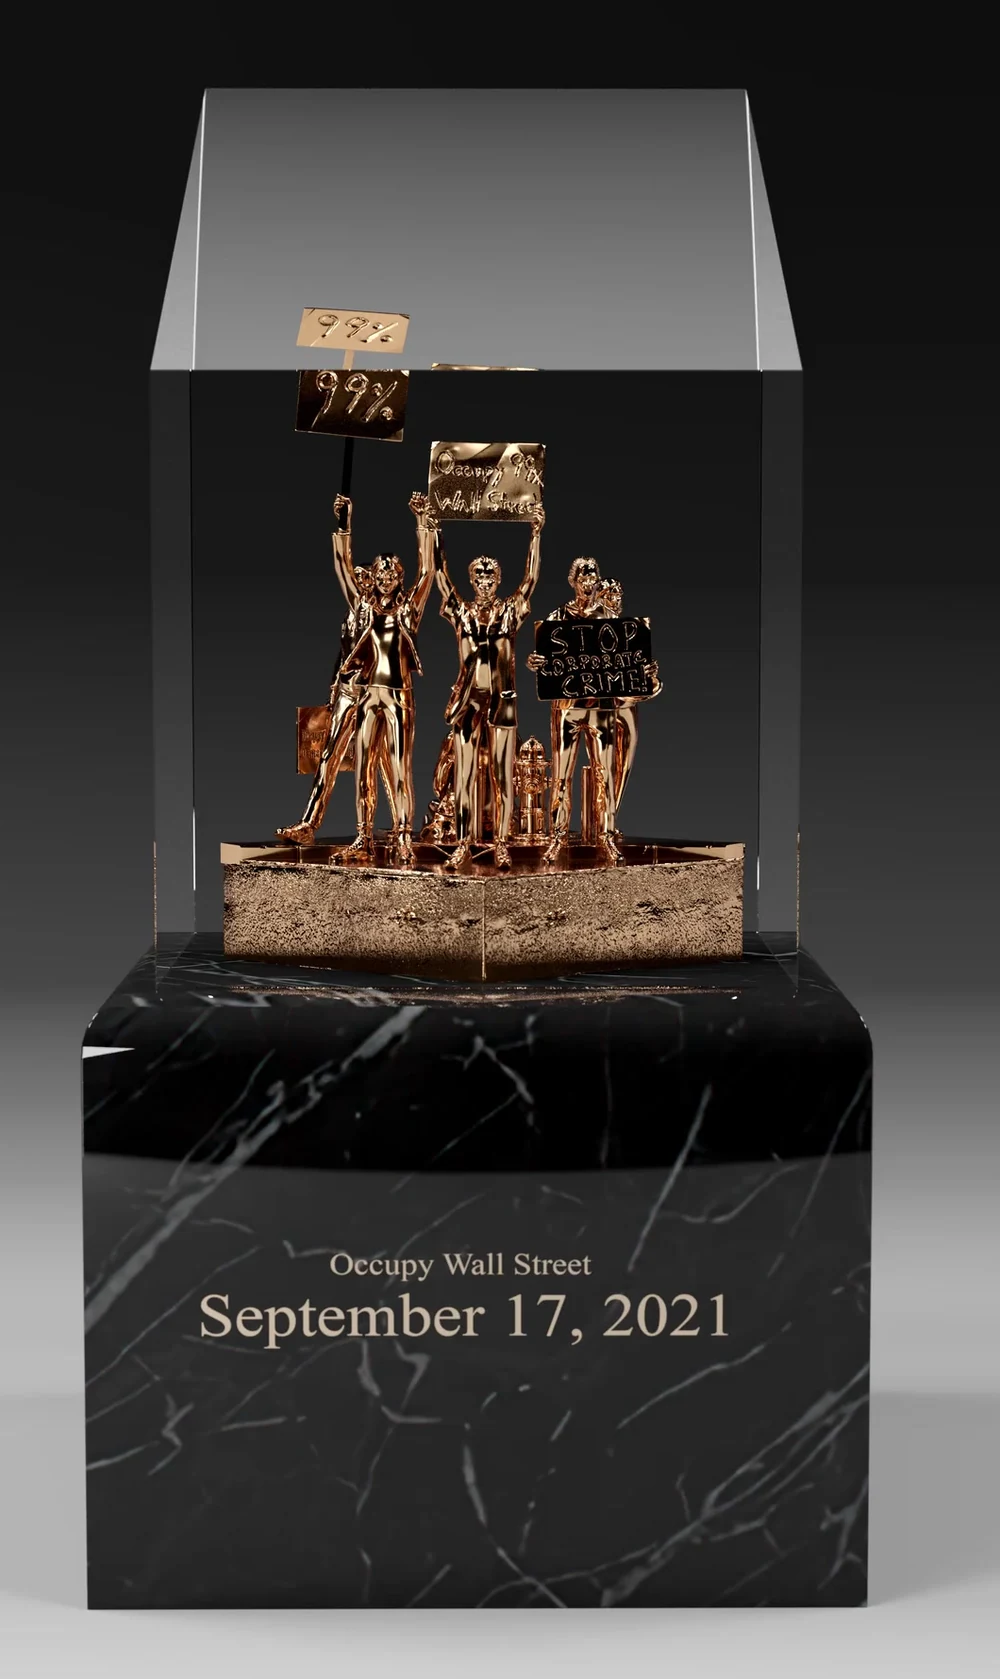
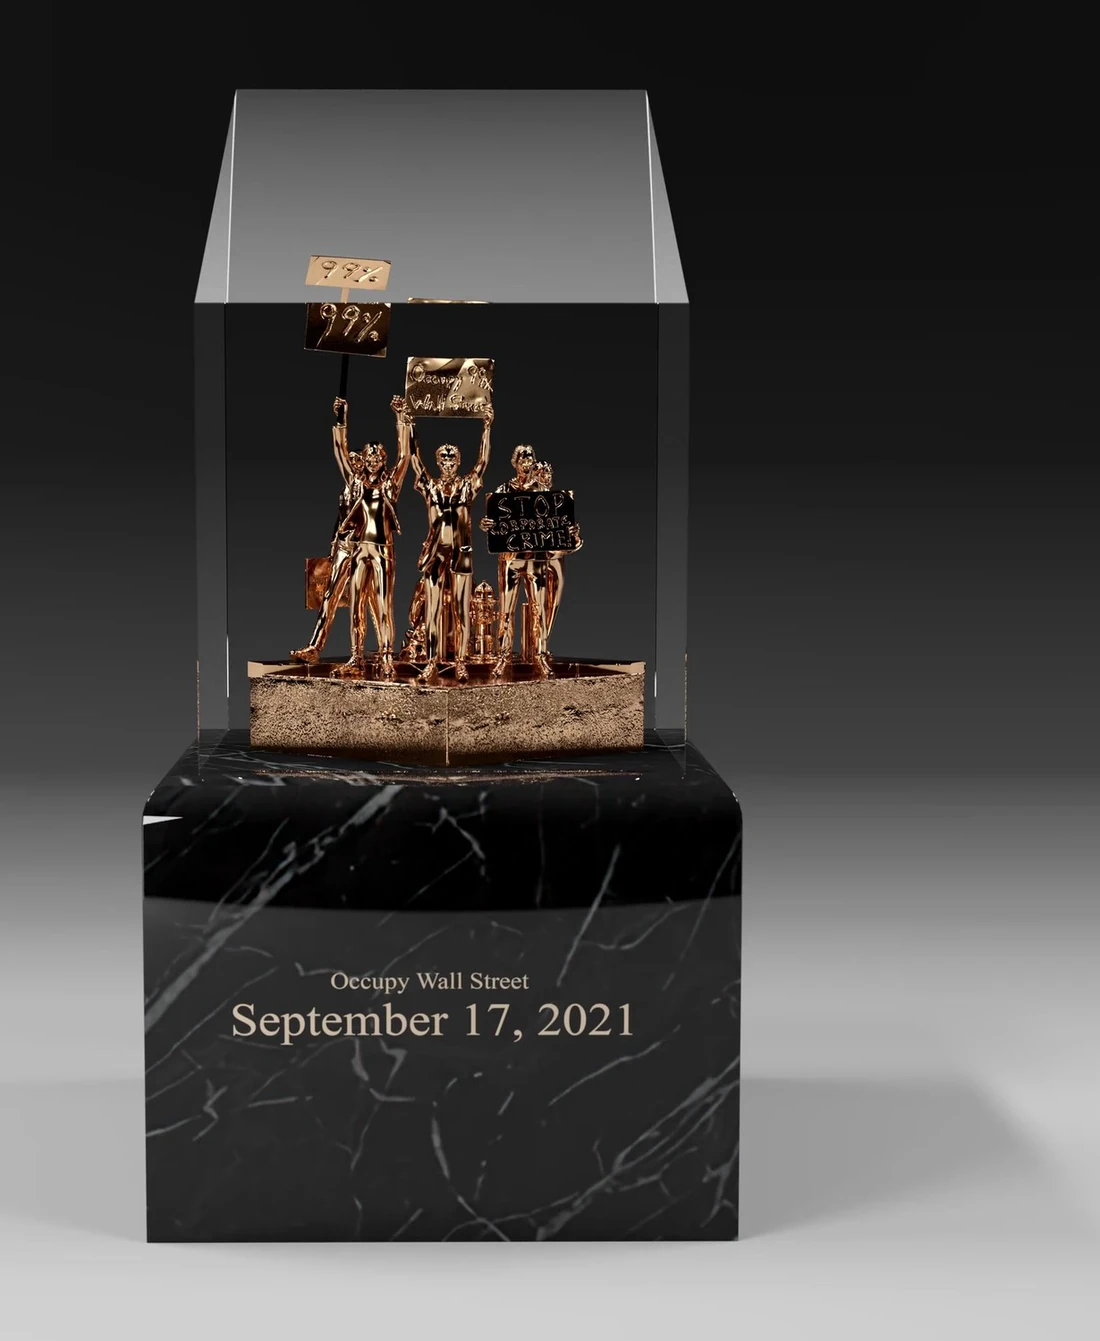
Recrop the Occupy plate so the whole object is in it
The plate ran the work off three edges: the vitrine's peak was cut at the top,
the plinth at the bottom and both sides. Not a layout fault — the file itself
was cropped that tight.

Rebuilt from the first shot, measured rather than eyeballed. Found the solid
object at x 358-1444, y 196-1494 of that frame, which also puts it about a
hundred pixels right of the frame's own centre, and cropped the largest
even-margin box that could be centred on the object without leaving the
source: 1230x1500, 72px either side and 101 top and bottom. The case, the
plinth and the date are all inside it now.

Because the plate is that shot recropped, the wall would have shown the same
view twice, so the project marks it and the track skips it. The project page
still shows the full run.

diff --git a/_projects/2020-01-01-ows-deal-toy.md b/_projects/2020-01-01-ows-deal-toy.md
@@ -4,7 +4,10 @@ title:  "OWS 10th Anniversary Deal Toy"
 date:   2020-01-01
 category: sculpture
 image_path: "/images/ows-deal-toy/jhuff-ows-deal-toy-"
+# The plate is shot 1 recropped around the object, so the wall does not
+# show the same view twice.
 shots: 6
+plate_shot: 1
 video: "/images/ows-deal-toy/jhuff-ows-deal-toy.mp4"
 video_poster: "/images/ows-deal-toy/jhuff-ows-deal-toy-poster.jpg"
 description: |
@@ -26,8 +29,8 @@ description: |
   Modelled with Peter Valkanoff. All proceeds assigned to W.A.G.E., Working
   Artists and the Greater Economy.
 plate: "/images/plates/ows-deal-toy.webp"
-plate_w: 1000
-plate_h: 1679
+plate_w: 1100
+plate_h: 1341
 section: studio
 dark: true
 ---
